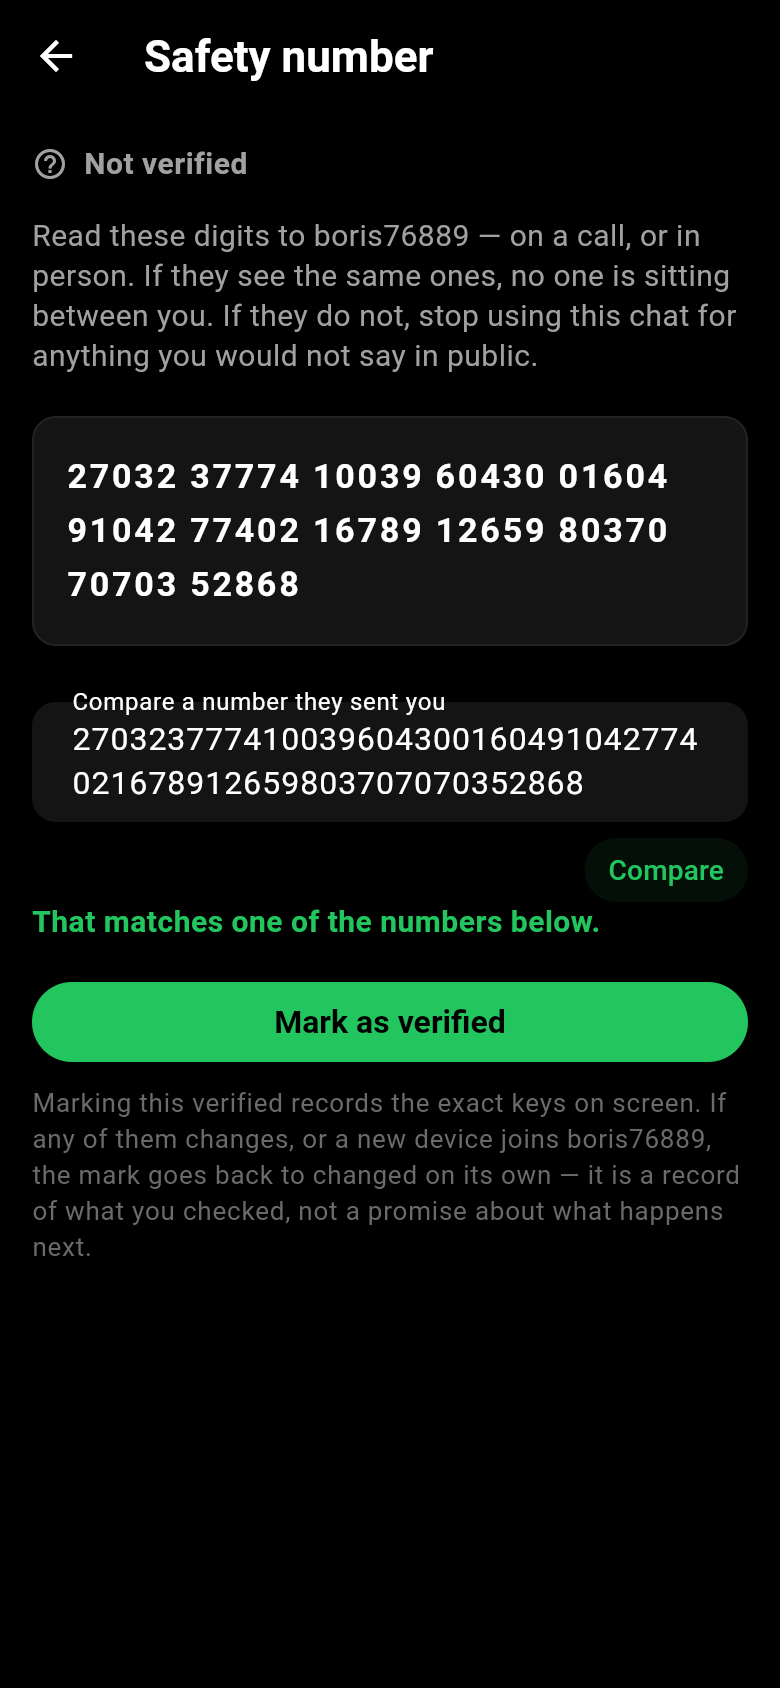
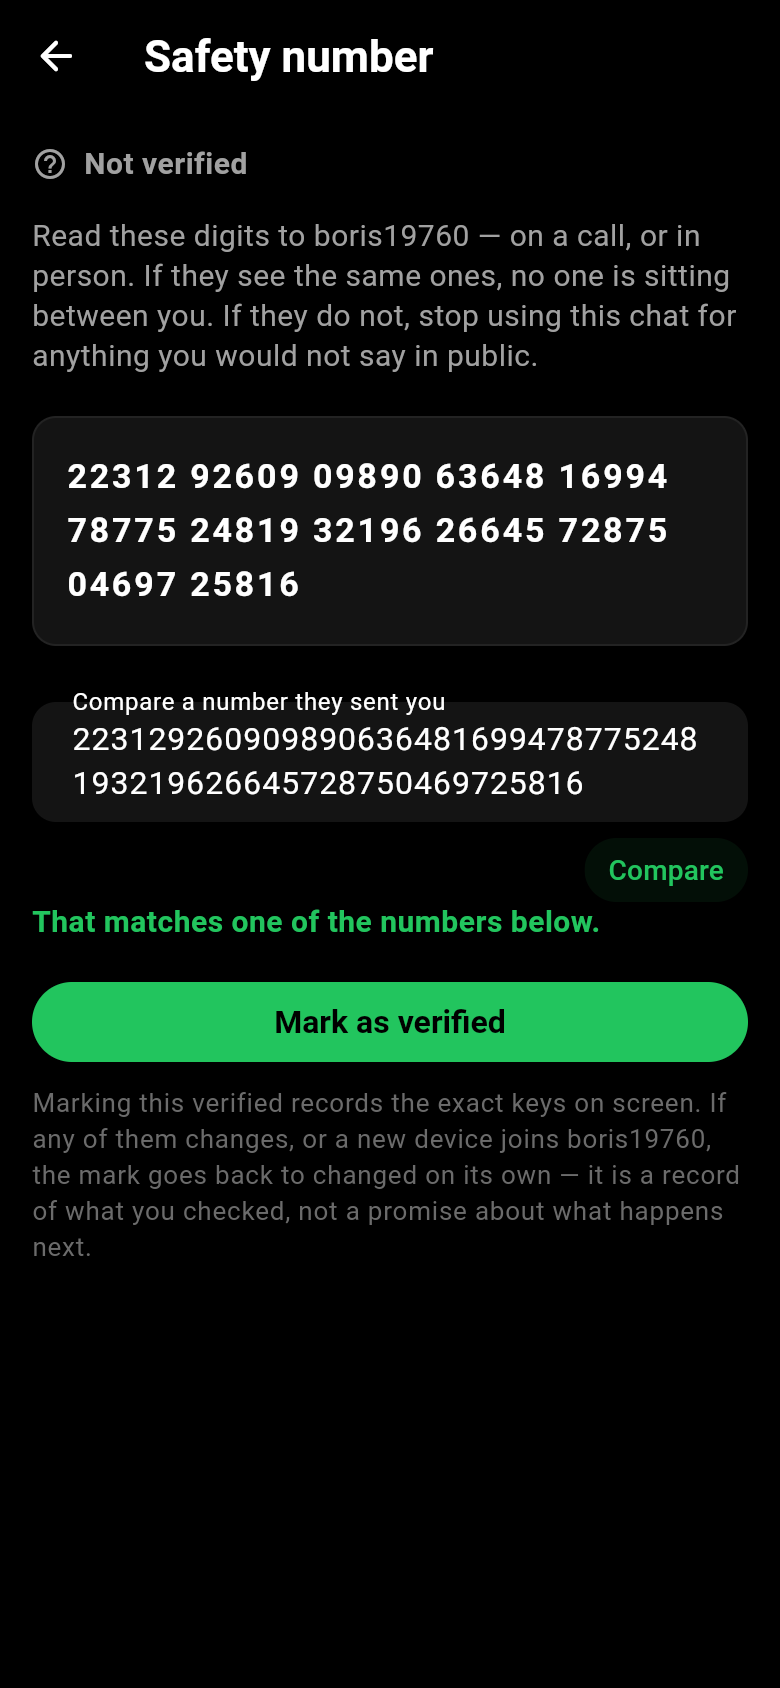
Replace the back button with just an arrow
The framework's BackButton carries a tooltip reading "Back". On a phone
that only surfaces under a long press, but on the web it follows the
pointer around as a pale grey slab, and it is the one piece of chrome on
every pushed screen in the app.

PrivioBackButton is an IconButton with no tooltip and the rounded arrow
the rest of Privio's icons are drawn from. The word is not lost, only
unpainted: it moves to the icon's semantic label, where a screen reader
looks and nothing draws it. Set as the leading widget on all 21 pushed
screens; the five tab screens have no back arrow and are untouched.

The app's own tooltips — More, Voice call, Attach a file — stay, and now
take the app's colours instead of the default light slab, with a longer
delay so moving a pointer across an app bar does not leave a trail of
labels behind it.

Checked in the browser: no label on hover, the arrow still pops the
route, and the semantics tree still reports "Back" to a reader.

Claude-Session: https://claude.ai/code/session_01P76GQjC3TKsrvsZbSGxh12

diff --git a/app/lib/theme/privio_theme.dart b/app/lib/theme/privio_theme.dart
@@ -45,6 +45,30 @@ abstract final class PrivioTheme {
           color: PrivioColors.textPrimary,
         ),
       ),
+      // The app's own tooltips — "More", "Voice call", "Attach a file" — in
+      // the app's own colours. The default is a pale grey slab that belongs to
+      // no part of this design. (The back arrow has none at all; see
+      // widgets/privio_back_button.dart.)
+      tooltipTheme: TooltipThemeData(
+        decoration: BoxDecoration(
+          color: PrivioColors.surfaceHigh,
+          borderRadius: const BorderRadius.all(PrivioRadius.card),
+          border: Border.all(color: PrivioColors.border),
+        ),
+        textStyle: const TextStyle(
+          fontFamily: _fontFamily,
+          fontSize: 12,
+          height: 16 / 12,
+          color: PrivioColors.textSecondary,
+        ),
+        padding: const EdgeInsets.symmetric(
+          horizontal: PrivioSpacing.md,
+          vertical: PrivioSpacing.sm,
+        ),
+        // Long enough that moving a pointer across an app bar does not leave a
+        // trail of labels behind it.
+        waitDuration: const Duration(milliseconds: 600),
+      ),
       bottomNavigationBarTheme: const BottomNavigationBarThemeData(
         backgroundColor: PrivioColors.background,
         selectedItemColor: PrivioColors.accent,

diff --git a/app/lib/widgets/privio_back_button.dart b/app/lib/widgets/privio_back_button.dart
@@ -1,0 +1,21 @@
+import 'package:flutter/material.dart';
+
+/// The back arrow, without the label Flutter hangs off it.
+///
+/// Every pushed screen used the framework's [BackButton], which carries a
+/// tooltip reading "Back". On a phone that only surfaces under a long press,
+/// but on the web it follows the pointer around as a floating slab, and it is
+/// the one piece of chrome that appears on every screen in the app. An arrow
+/// pointing left already says what it does.
+///
+/// The word is not lost, only unpainted: it moves to the icon's semantic
+/// label, which is where a screen reader looks and where nothing draws it.
+class PrivioBackButton extends StatelessWidget {
+  const PrivioBackButton({super.key});
+
+  @override
+  Widget build(BuildContext context) => IconButton(
+        icon: const Icon(Icons.arrow_back_rounded, semanticLabel: 'Back'),
+        onPressed: () => Navigator.maybePop(context),
+      );
+}

diff --git a/app/lib/screens/privacy_screen.dart b/app/lib/screens/privacy_screen.dart
@@ -3,6 +3,7 @@ import 'package:flutter/material.dart';
 import '../core/app_state.dart';
 import '../core/security_controller.dart';
 import '../theme/privio_colors.dart';
+import '../widgets/privio_back_button.dart';
 import '../widgets/settings_row.dart';
 import 'blocked_users_screen.dart';
 import 'screen_lock_screen.dart';
@@ -75,7 +76,10 @@ class _PrivacyScreenState extends State<PrivacyScreen> {
     final conversations = state.conversations;
     final security = state.security;
     return Scaffold(
-      appBar: AppBar(title: const Text('Privacy & Security')),
+      appBar: AppBar(
+        leading: const PrivioBackButton(),
+        title: const Text('Privacy & Security'),
+      ),
       body: ListenableBuilder(
         listenable: Listenable.merge([conversations, security]),
         builder: (context, _) => ListView(

diff --git a/app/lib/screens/duress_code_screen.dart b/app/lib/screens/duress_code_screen.dart
@@ -3,6 +3,7 @@ import 'package:flutter/material.dart';
 import '../core/app_state.dart';
 import '../core/security_controller.dart';
 import '../theme/privio_colors.dart';
+import '../widgets/privio_back_button.dart';
 
 /// The duress code: a second password that destroys the account instead of
 /// opening it, and that looks from the outside exactly like a typo.
@@ -167,7 +168,10 @@ class _DuressCodeScreenState extends State<DuressCodeScreen> {
     final theme = Theme.of(context);
 
     return Scaffold(
-      appBar: AppBar(title: const Text('Duress Code')),
+      appBar: AppBar(
+        leading: const PrivioBackButton(),
+        title: const Text('Duress Code'),
+      ),
       body: ListenableBuilder(
         listenable: Listenable.merge([state, security]),
         builder: (context, _) => ListView(

diff --git a/app/lib/screens/two_factor_screen.dart b/app/lib/screens/two_factor_screen.dart
@@ -5,6 +5,7 @@ import 'package:qr_flutter/qr_flutter.dart';
 import '../core/app_state.dart';
 import '../core/security_controller.dart';
 import '../theme/privio_colors.dart';
+import '../widgets/privio_back_button.dart';
 import '../widgets/settings_row.dart';
 
 /// Two-factor authentication: turning it on, and turning it off.
@@ -91,7 +92,10 @@ class _TwoFactorScreenState extends State<TwoFactorScreen> {
     final security = PrivioScope.of(context).security;
 
     return Scaffold(
-      appBar: AppBar(title: const Text('Two-Factor Authentication')),
+      appBar: AppBar(
+        leading: const PrivioBackButton(),
+        title: const Text('Two-Factor Authentication'),
+      ),
       body: ListenableBuilder(
         listenable: security,
         builder: (context, _) => ListView(

diff --git a/app/lib/screens/license_screen.dart b/app/lib/screens/license_screen.dart
@@ -5,6 +5,7 @@ import '../core/edition.dart';
 import '../core/license_controller.dart';
 import '../theme/privio_colors.dart';
 import '../widgets/license_key_field.dart';
+import '../widgets/privio_back_button.dart';
 
 /// Activation: where a Privio License Key is turned into a licensed account.
 ///
@@ -53,7 +54,10 @@ class _LicenseScreenState extends State<LicenseScreen> {
     final license = PrivioScope.of(context).license;
 
     return Scaffold(
-      appBar: AppBar(title: const Text('Privio License')),
+      appBar: AppBar(
+        leading: const PrivioBackButton(),
+        title: const Text('Privio License'),
+      ),
       body: ListenableBuilder(
         listenable: license,
         builder: (context, _) => _Body(license: license, field: _key, onActivate: _activate),

diff --git a/app/lib/screens/safety_number_screen.dart b/app/lib/screens/safety_number_screen.dart
@@ -6,6 +6,7 @@ import 'package:flutter/services.dart';
 import '../core/app_state.dart';
 import '../crypto/safety_number.dart';
 import '../theme/privio_colors.dart';
+import '../widgets/privio_back_button.dart';
 
 /// The screen that makes end-to-end encryption checkable.
 ///
@@ -127,7 +128,10 @@ class _SafetyNumberScreenState extends State<SafetyNumberScreen> {
     final pending = state.conversations.identityChangesFor(widget.accountId);
 
     return Scaffold(
-      appBar: AppBar(title: const Text('Safety number')),
+      appBar: AppBar(
+        leading: const PrivioBackButton(),
+        title: const Text('Safety number'),
+      ),
       body: _loading
           ? const Center(child: CircularProgressIndicator(color: PrivioColors.accent))
           : ListView(

diff --git a/app/lib/screens/notifications_screen.dart b/app/lib/screens/notifications_screen.dart
@@ -4,6 +4,7 @@ import '../core/app_state.dart';
 import '../core/edition.dart';
 import '../services/wake_up.dart';
 import '../theme/privio_colors.dart';
+import '../widgets/privio_back_button.dart';
 import '../widgets/settings_row.dart';
 
 /// Screen 17: how this device gets told that something arrived.
@@ -33,7 +34,10 @@ class _NotificationsScreenState extends State<NotificationsScreen> {
     final wakeUp = PrivioScope.of(context).wakeUp;
 
     return Scaffold(
-      appBar: AppBar(title: const Text('Notifications')),
+      appBar: AppBar(
+        leading: const PrivioBackButton(),
+        title: const Text('Notifications'),
+      ),
       body: ListView(
         padding: const EdgeInsets.only(bottom: PrivioSpacing.xxxl),
         children: [

diff --git a/app/lib/screens/channel_members_screen.dart b/app/lib/screens/channel_members_screen.dart
@@ -4,6 +4,7 @@ import '../core/app_state.dart';
 import '../models/channel.dart';
 import '../theme/privio_colors.dart';
 import '../widgets/avatar.dart';
+import '../widgets/privio_back_button.dart';
 
 /// Who is in a channel, and what each of them may do.
 ///
@@ -66,7 +67,10 @@ class _ChannelMembersScreenState extends State<ChannelMembersScreen> {
         final members = controller.membersOf(widget.channel.id);
 
         return Scaffold(
-          appBar: AppBar(title: const Text('Members')),
+          appBar: AppBar(
+            leading: const PrivioBackButton(),
+            title: const Text('Members'),
+          ),
           body: ListView.builder(
             itemCount: members.length,
             itemBuilder: (context, index) {

diff --git a/app/lib/screens/devices_screen.dart b/app/lib/screens/devices_screen.dart
@@ -3,6 +3,7 @@ import 'package:flutter/material.dart';
 import '../core/app_state.dart';
 import '../core/security_controller.dart';
 import '../theme/privio_colors.dart';
+import '../widgets/privio_back_button.dart';
 import '../widgets/settings_row.dart';
 
 /// Screen 20: the devices signed in to this account, with remote logout.
@@ -64,7 +65,10 @@ class _DevicesScreenState extends State<DevicesScreen> {
     final security = PrivioScope.of(context).security;
 
     return Scaffold(
-      appBar: AppBar(title: const Text('Devices')),
+      appBar: AppBar(
+        leading: const PrivioBackButton(),
+        title: const Text('Devices'),
+      ),
       body: ListenableBuilder(
         listenable: security,
         builder: (context, _) {

diff --git a/app/lib/screens/blocked_users_screen.dart b/app/lib/screens/blocked_users_screen.dart
@@ -3,6 +3,7 @@ import 'package:flutter/material.dart';
 import '../core/app_state.dart';
 import '../core/security_controller.dart';
 import '../theme/privio_colors.dart';
+import '../widgets/privio_back_button.dart';
 import '../widgets/settings_row.dart';
 
 /// Who this account has blocked, and how to stop.
@@ -53,7 +54,10 @@ class _BlockedUsersScreenState extends State<BlockedUsersScreen> {
     final security = PrivioScope.of(context).security;
 
     return Scaffold(
-      appBar: AppBar(title: const Text('Blocked Users')),
+      appBar: AppBar(
+        leading: const PrivioBackButton(),
+        title: const Text('Blocked Users'),
+      ),
       body: ListenableBuilder(
         listenable: security,
         builder: (context, _) {

diff --git a/app/lib/screens/disguise_screen.dart b/app/lib/screens/disguise_screen.dart
@@ -4,6 +4,7 @@ import '../core/app_state.dart';
 import '../disguise/launcher_disguise.dart';
 import '../disguise/skin.dart';
 import '../theme/privio_colors.dart';
+import '../widgets/privio_back_button.dart';
 import '../widgets/settings_row.dart';
 import 'calculator_screen.dart';
 import 'screen_lock_screen.dart';
@@ -21,7 +22,10 @@ class DisguiseScreen extends StatelessWidget {
     final theme = Theme.of(context);
 
     return Scaffold(
-      appBar: AppBar(title: const Text('Disguise mode')),
+      appBar: AppBar(
+        leading: const PrivioBackButton(),
+        title: const Text('Disguise mode'),
+      ),
       body: ListenableBuilder(
         listenable: state,
         builder: (context, _) => ListView(
